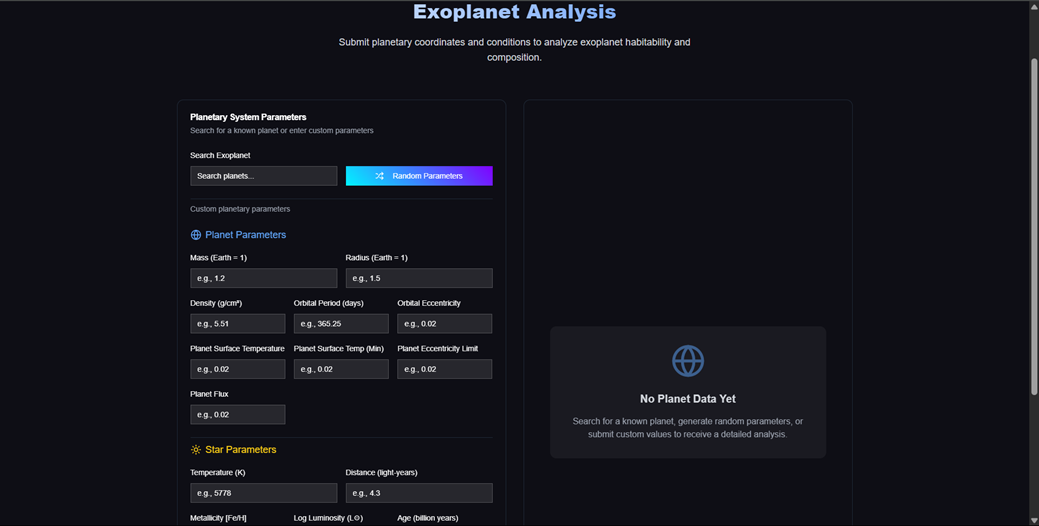
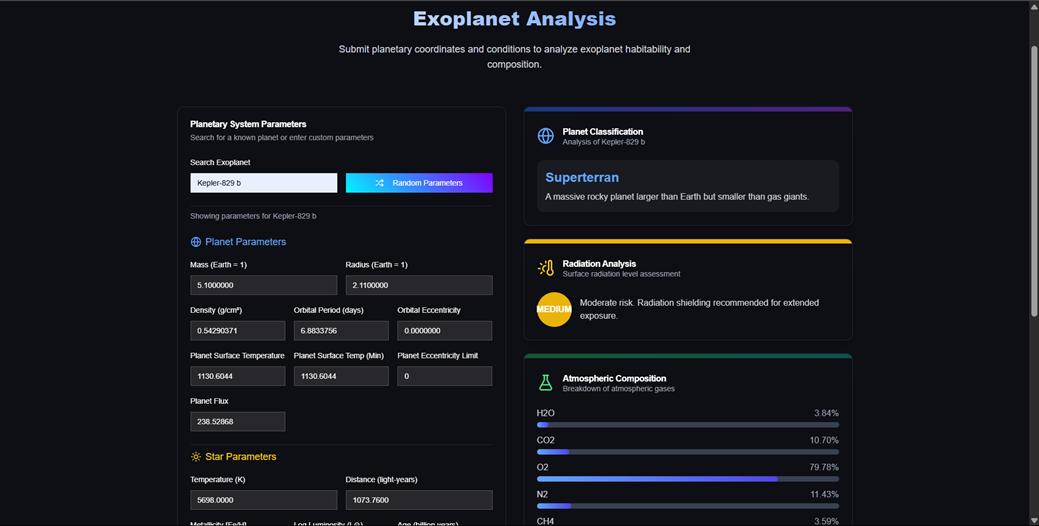
Readme.md

diff --git a/README.md b/README.md
@@ -1,1 +1,195 @@
-# Sem-5
+# 🪐 ExoHabitat: A Learning Lab for Young Minds to Exoplanets and Habitability
+
+## 🌌 Table of Contents
+
+- [Collaborators](#collaborators)
+- [Introduction](#introduction)
+- [Features](#features)
+- [Tech Stack](#tech-stack)
+- [How It Works](#how-it-works)
+- [Installation](#installation)
+- [Screenshots](#screenshots)
+- [Datasets and References](#datasets-and-references)
+- [Contributing](#contributing)
+- [License](#license)
+
+## 👨💻 Collaborators
+
+- [**Pratyay Koley**](https://github.com/PratyayKoley)
+- [**Cyrus Gomes**](https://github.com/cyrus1811)
+- [**Hardik Murudi**](https://github.com/hardikm79)
+- [**Vedant Parte**](https://github.com/V4dant)
+
+## 🪐 Introduction
+
+ExoHabitat is a full-stack interactive web application that combines machine learning, astrophysics, and real-time 3D visualization to analyze and simulate the **habitability potential**, **exoplanet characteristics** of exoplanets. It leverages spectral analysis, atmospheric composition prediction, gravity simulations, and user-customizable planetary systems to create a rich exploration experience for scientists, students, and space enthusiasts.
+
+🌐 **Live Site:** [exohabitat.vercel.app](https://exohabitat.vercel.app)
+
+## ✨ Features
+
+- 🧪 **Atmospheric Gas Detection (CO₂, H₂O, CH₄, O₂, N₂)** via machine learning on transit spectroscopy
+- 🧠 **Habitability prediction** using Classical ML models
+- ☢ **Radiation Prediction** using Clustering ML models
+- 📊 **Visualization of planetary data** like mass, temperature, radiation, density, orbital parameters
+- 🛰 **Compare planetary characteristics and habitability across multiple systems**
+- 🪐 **User-generated solar system sandbox**: Create your own universe and test its life-sustaining potential
+- 📈 **Gravity simulation**: Interactive Newtonian physics simulation for orbital mechanics
+
+## ⚙ Tech Stack
+
+#### Frontend
+
+- React + Vite
+- Tailwind CSS
+- Three.js (for 3D visualizations)
+
+#### Backend
+
+- Python + FastAPI + Google Colab
+- Python (for ML models: clustering, decision trees)
+
+  **Machine Learning**
+- CNNs and MLPs for transit spectroscopy
+- Clustering (KMeans)
+- Decision Trees & Isolation Forests
+- Random Forest Regressor
+
+## 🔍 How It Works
+
+![Flowchart](./Assets/Flow.png)
+
+1. **User lands on homepage** and can explore our solar system or others using 3D simulation.
+2. **User selects a planet** to see its detailed characteristics and predicted atmospheric data.
+3. **Backend fetches planetary data** (mass, radius, temperature, orbit, etc.) from NASA Exoplanet Archive.
+4. **ML model analyzes all characteristics** using a combination of ML models
+5. **Results are visualized** using Gemini AI and AI analysis is provided.
+6. **Sandbox mode** lets users create planets and simulate gravitational interactions in real-time.
+
+## 💻 Installation
+
+1. Clone the repository:
+
+   ```bash
+   git clone https://github.com/PratyayKoley/Exohabitat.git
+   cd Exohabitat
+   ```
+2. Install Dependencies:
+
+   #### Backend
+
+
+   ```bash
+   cd Backend
+   python -m venv .venv
+   .venv/Scripts/activate  # For Windows
+   # Or use: source .venv/bin/activate  # For macOS/Linux
+
+   pip install -r requirements.txt
+   uvicorn main:app --reload
+   ```
+
+   ⚠ Note: Make sure you are using Python 3.11 or lower. TensorFlow currently does not support Python 3.12 or above.
+
+   #### Frontend
+
+   ```bash
+   cd Frontend
+   npm install 
+   npm run dev
+   ```
+3. Create .env files:
+
+   #### Backend
+
+
+   ```bash
+   GEMINI_API_KEY=your_gemini_api_key
+   NEWS_API=https://newsapi.org/v2/top-headlines?country=us&category=science&apiKey=your_news_api_key
+   ```
+
+   #### Frontend
+
+   ```bash
+   VITE_BACKEND_URL=your_backend_url
+   ```
+
+## 🖼 Screenshots
+
+### 🔹 Home & Landing Page
+
+![Landing Page](./Assets/Landing.png)
+![Homepage](./Assets/HomePage.png)
+
+---
+
+### 🔹 Planetary Characteristics and Earth Overview
+
+![Comparison Module](./Assets/Comparison.png)
+![Planet Earth](./Assets/Planet_Earth.png)
+
+---
+
+### 🔹 AI-Powered Analysis Dashboard
+
+![Analysis UI](./Assets/Analysis_UI.png)
+![Analysis Output](./Assets/Analysis_Output.png)
+![AI Analysis](./Assets/Analysis_AI.png)
+
+---
+
+### 🔹 Habitability Analysis & Prediction
+
+![Habitability Analysis](./Assets/Habitability_Analysis.png)
+![Habitability Analysis 2](./Assets/Habitability_analysis2.png)
+
+---
+
+### 🔹 Clustering and Decision Tree Analysis
+
+![Clustering Radiation](./Assets/Clustering_Radiation.png)
+![Decision Tree Type](./Assets/DecisionTree_Type.png)
+
+---
+
+### 🔹 Gravity and Orbital Simulation
+
+![Gravity Simulation](./Assets/Gravity_Simulation.png)
+
+---
+
+### 🔹 Custom Universe & Comparison
+
+![Create Universe](./Assets/Creating_Universe.png)
+![Planet Characteristics](./Assets/Planet_Characteristics.png)
+
+---
+
+### 🔹 Solar System 3D
+
+![3D Solar System](./Assets/3DSolar.png)
+
+---
+
+## 🔗 Datasets and References
+
+### Datasets Used
+
+- [NASA Exoplanet Archive](https://exoplanetarchive.ipac.caltech.edu/docs/data.html)
+- [PHL HABITABLE WORLDS CATALOG](https://phl.upr.edu/hwc/data)
+- [Github Repository](https://github.com/ACM-Research/exoplanet-atmosphere-analysis-with-ML)
+  *We used the dataset made available through this repository, which in turn sourced data from a collaboration between the NASA Astrobiology II Team and Google Cloud. The dataset was accessed via a public Google Cloud bucket and includes:
+  Atmospheric compositions of 12 key gases, H2O, CO2, O2, N2, CH4, N2O, CO, O3, SO2, NH3, C2H6, NO2.*
+
+## 🤝 Contributing
+
+Contributions, ideas, and suggestions are welcome! If you'd like to contribute:
+
+- Fork this repo
+- Create a new branch (git checkout -b feature-name)
+- Commit your changes
+- Open a Pull Request
+
+## 📄 License
+
+This project is licensed under the MIT License. See the LICENSE file for more information.
